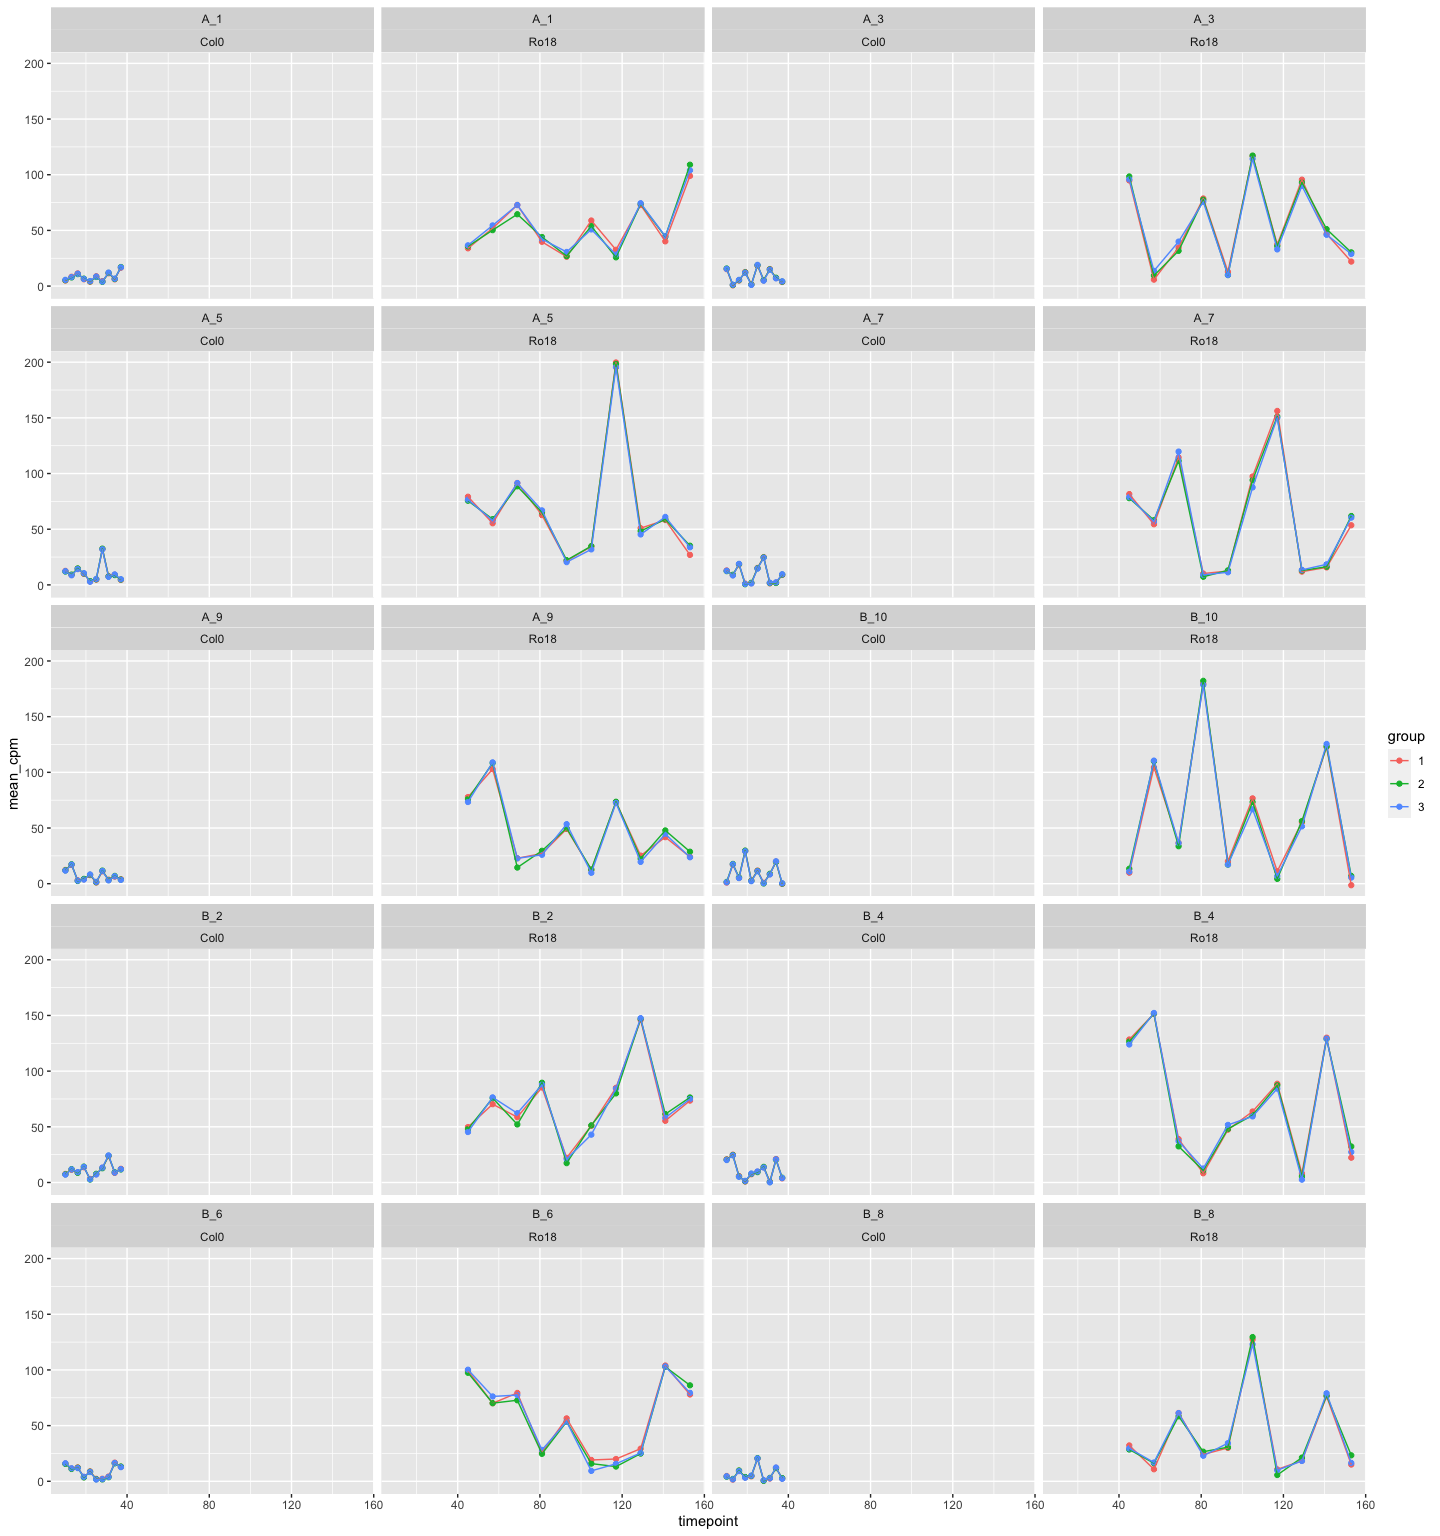
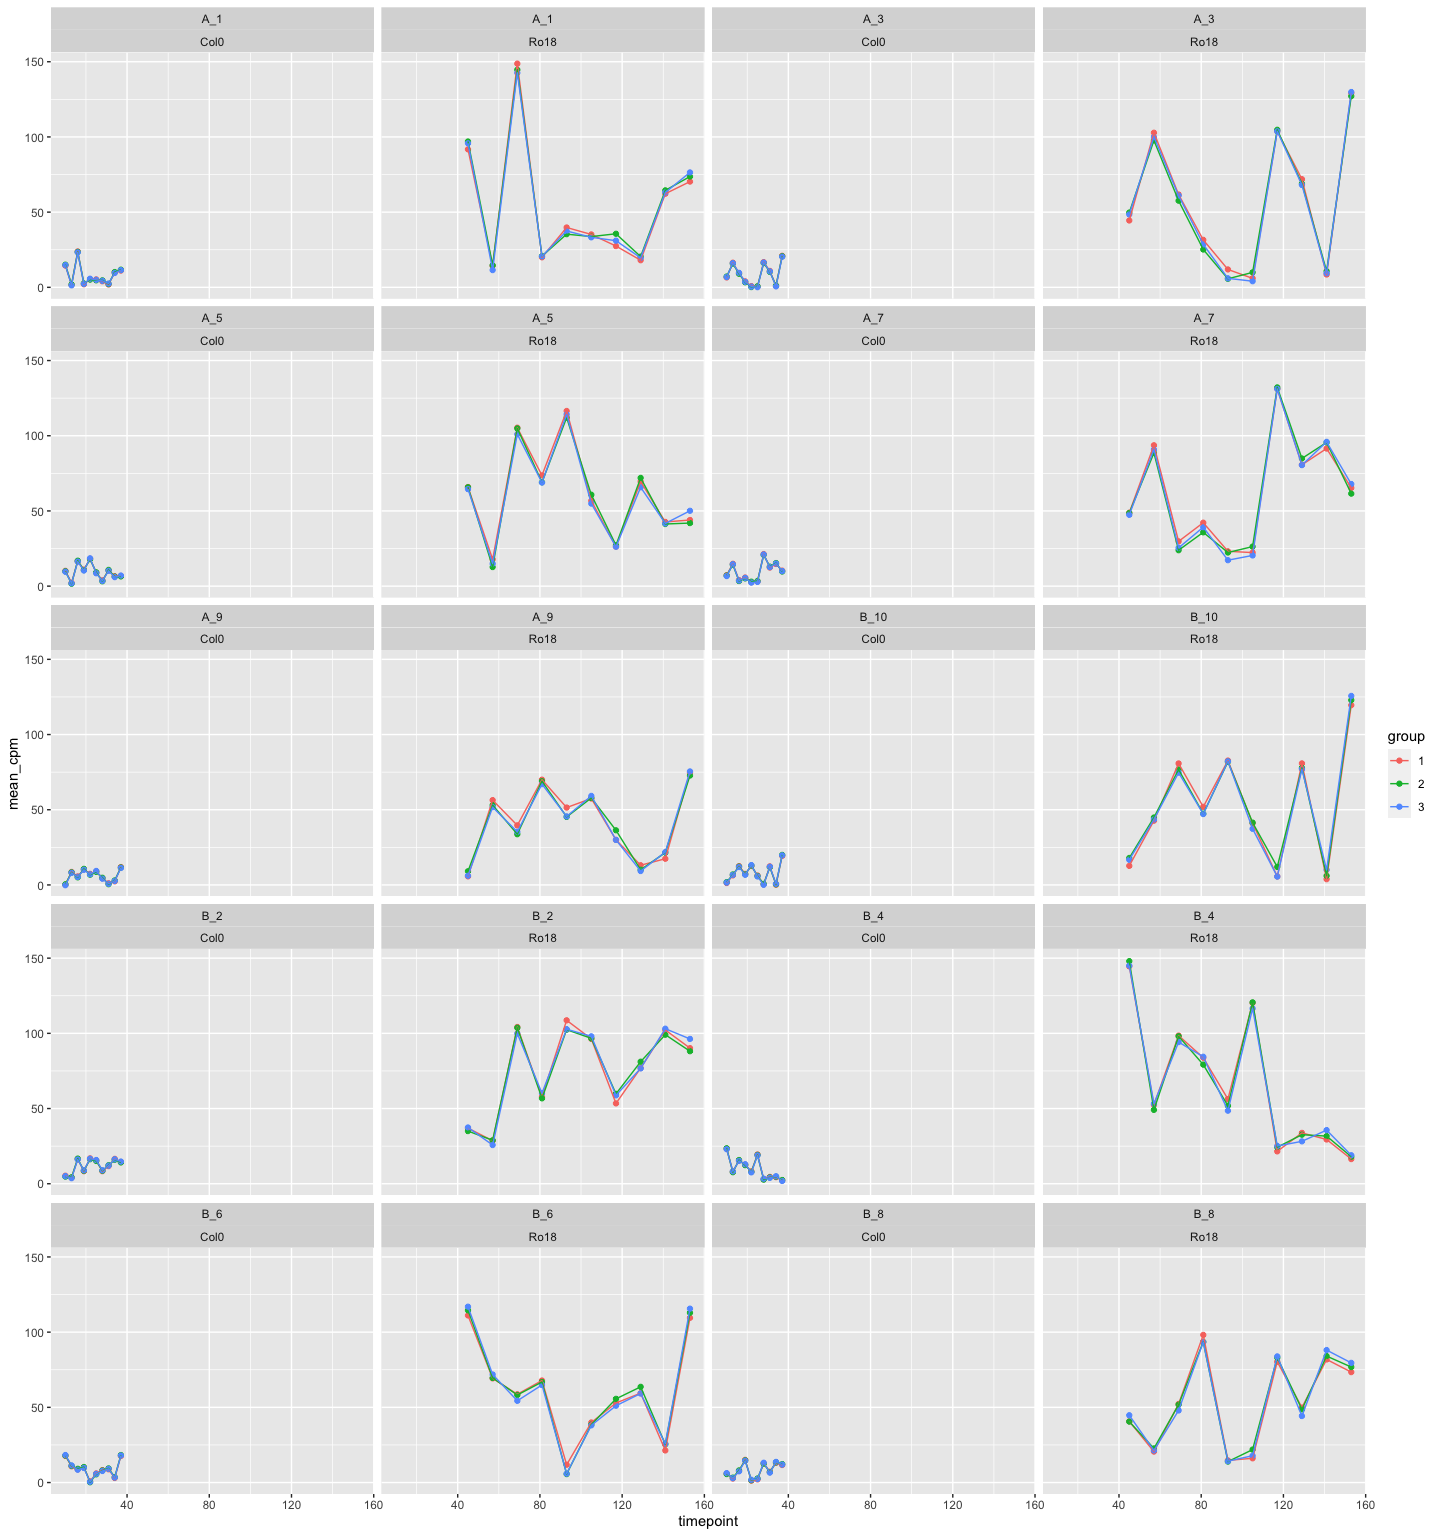
updated the simulation files

diff --git a/dev/0012_running_with_simulated_data_with_repetition.md b/dev/0012_running_with_simulated_data_with_repetition.md
@@ -246,7 +246,7 @@ list_letter <- LETTERS[seq(from = 1, to = 2)]
 list_num <- seq(1, 10, 1)
 gene_name <- paste0(list_letter, "_", list_num)
 
-replicate_sd_list <- seq(0, 0.30, length.out = 31)
+replicate_sd_list <- seq(0, 0.35, length.out = 36)
 # replicate_sd_list <- c(0, 0.05)
 num_timepoints <- 10
 
@@ -397,63 +397,63 @@ table %>%
 | 0.02 |             10 |                       10 |
 | 0.02 |              6 |                        0 |
 | 0.02 |              4 |                        0 |
-| 0.03 |             10 |                       10 |
+| 0.03 |             10 |                        9 |
 | 0.03 |              6 |                        0 |
 | 0.03 |              4 |                        0 |
 | 0.04 |             10 |                       10 |
-| 0.04 |              6 |                        2 |
+| 0.04 |              6 |                        0 |
 | 0.04 |              4 |                        4 |
 | 0.05 |             10 |                       10 |
 | 0.05 |              6 |                        0 |
-| 0.05 |              4 |                        5 |
+| 0.05 |              4 |                        2 |
 | 0.06 |             10 |                       10 |
 | 0.06 |              6 |                        0 |
-| 0.06 |              4 |                        2 |
+| 0.06 |              4 |                        1 |
 | 0.07 |             10 |                       10 |
-| 0.07 |              6 |                        0 |
-| 0.07 |              4 |                        5 |
-| 0.08 |             10 |                        9 |
-| 0.08 |              6 |                        1 |
-| 0.08 |              4 |                        2 |
-| 0.09 |             10 |                        9 |
-| 0.09 |              6 |                        1 |
-| 0.09 |              4 |                       10 |
+| 0.07 |              6 |                        1 |
+| 0.07 |              4 |                       10 |
+| 0.08 |             10 |                       10 |
+| 0.08 |              6 |                        0 |
+| 0.08 |              4 |                       10 |
+| 0.09 |             10 |                       10 |
+| 0.09 |              6 |                        0 |
+| 0.09 |              4 |                        1 |
 | 0.10 |             10 |                       10 |
-| 0.10 |              6 |                        0 |
-| 0.10 |              4 |                        0 |
-| 0.11 |             10 |                       10 |
-| 0.11 |              6 |                        0 |
-| 0.11 |              4 |                        0 |
+| 0.10 |              6 |                        4 |
+| 0.10 |              4 |                        3 |
 | 0.12 |             10 |                       10 |
-| 0.12 |              6 |                        3 |
-| 0.12 |              4 |                        8 |
+| 0.12 |              6 |                        2 |
+| 0.12 |              4 |                        9 |
 | 0.13 |             10 |                       10 |
-| 0.13 |              6 |                        9 |
+| 0.13 |              6 |                        6 |
 | 0.13 |              4 |                       10 |
 | 0.14 |             10 |                       10 |
-| 0.14 |              6 |                        8 |
+| 0.14 |              6 |                        5 |
 | 0.14 |              4 |                       10 |
 | 0.15 |             10 |                       10 |
-| 0.15 |              6 |                        5 |
-| 0.15 |              4 |                        5 |
+| 0.15 |              6 |                        2 |
+| 0.15 |              4 |                       10 |
 | 0.16 |             10 |                       10 |
-| 0.16 |              6 |                        1 |
-| 0.16 |              4 |                        9 |
-| 0.17 |             10 |                        9 |
-| 0.17 |              6 |                        0 |
-| 0.17 |              4 |                        6 |
+| 0.16 |              6 |                        4 |
+| 0.16 |              4 |                       10 |
+| 0.17 |             10 |                       10 |
+| 0.17 |              6 |                        9 |
+| 0.17 |              4 |                       10 |
 | 0.20 |             10 |                       10 |
-| 0.20 |              6 |                        8 |
-| 0.20 |              4 |                        9 |
-| 0.24 |             10 |                        9 |
-| 0.24 |              6 |                       10 |
-| 0.24 |              4 |                       10 |
+| 0.20 |              6 |                        5 |
+| 0.20 |              4 |                       10 |
+| 0.21 |             10 |                        9 |
+| 0.21 |              6 |                        1 |
+| 0.21 |              4 |                       10 |
+| 0.22 |             10 |                       10 |
+| 0.22 |              6 |                        9 |
+| 0.22 |              4 |                       10 |
+| 0.23 |             10 |                       10 |
+| 0.23 |              6 |                        5 |
+| 0.23 |              4 |                       10 |
 | 0.27 |             10 |                        9 |
 | 0.27 |              6 |                       10 |
 | 0.27 |              4 |                       10 |
-| 0.28 |             10 |                       10 |
-| 0.28 |              6 |                        7 |
-| 0.28 |              4 |                       10 |
 
 ``` r
 # All timepoints are registered
@@ -467,33 +467,48 @@ table %>%
 
 |   SD | num_timepoints | registered_genes_total10 |
 |-----:|---------------:|-------------------------:|
+| 0.11 |             10 |                       10 |
+| 0.11 |              6 |                       10 |
+| 0.11 |              4 |                       10 |
 | 0.18 |             10 |                       10 |
 | 0.18 |              6 |                       10 |
 | 0.18 |              4 |                       10 |
 | 0.19 |             10 |                       10 |
 | 0.19 |              6 |                       10 |
 | 0.19 |              4 |                       10 |
-| 0.21 |             10 |                       10 |
-| 0.21 |              6 |                       10 |
-| 0.21 |              4 |                       10 |
-| 0.22 |             10 |                       10 |
-| 0.22 |              6 |                       10 |
-| 0.22 |              4 |                       10 |
-| 0.23 |             10 |                       10 |
-| 0.23 |              6 |                       10 |
-| 0.23 |              4 |                       10 |
+| 0.24 |             10 |                       10 |
+| 0.24 |              6 |                       10 |
+| 0.24 |              4 |                       10 |
 | 0.25 |             10 |                       10 |
 | 0.25 |              6 |                       10 |
 | 0.25 |              4 |                       10 |
 | 0.26 |             10 |                       10 |
 | 0.26 |              6 |                       10 |
 | 0.26 |              4 |                       10 |
+| 0.28 |             10 |                       10 |
+| 0.28 |              6 |                       10 |
+| 0.28 |              4 |                       10 |
 | 0.29 |             10 |                       10 |
 | 0.29 |              6 |                       10 |
 | 0.29 |              4 |                       10 |
 | 0.30 |             10 |                       10 |
 | 0.30 |              6 |                       10 |
 | 0.30 |              4 |                       10 |
+| 0.31 |             10 |                       10 |
+| 0.31 |              6 |                       10 |
+| 0.31 |              4 |                       10 |
+| 0.32 |             10 |                       10 |
+| 0.32 |              6 |                       10 |
+| 0.32 |              4 |                       10 |
+| 0.33 |             10 |                       10 |
+| 0.33 |              6 |                       10 |
+| 0.33 |              4 |                       10 |
+| 0.34 |             10 |                       10 |
+| 0.34 |              6 |                       10 |
+| 0.34 |              4 |                       10 |
+| 0.35 |             10 |                       10 |
+| 0.35 |              6 |                       10 |
+| 0.35 |              4 |                       10 |
 
 ``` r
 results_list$data_sd_0.3$all_data %>% 
